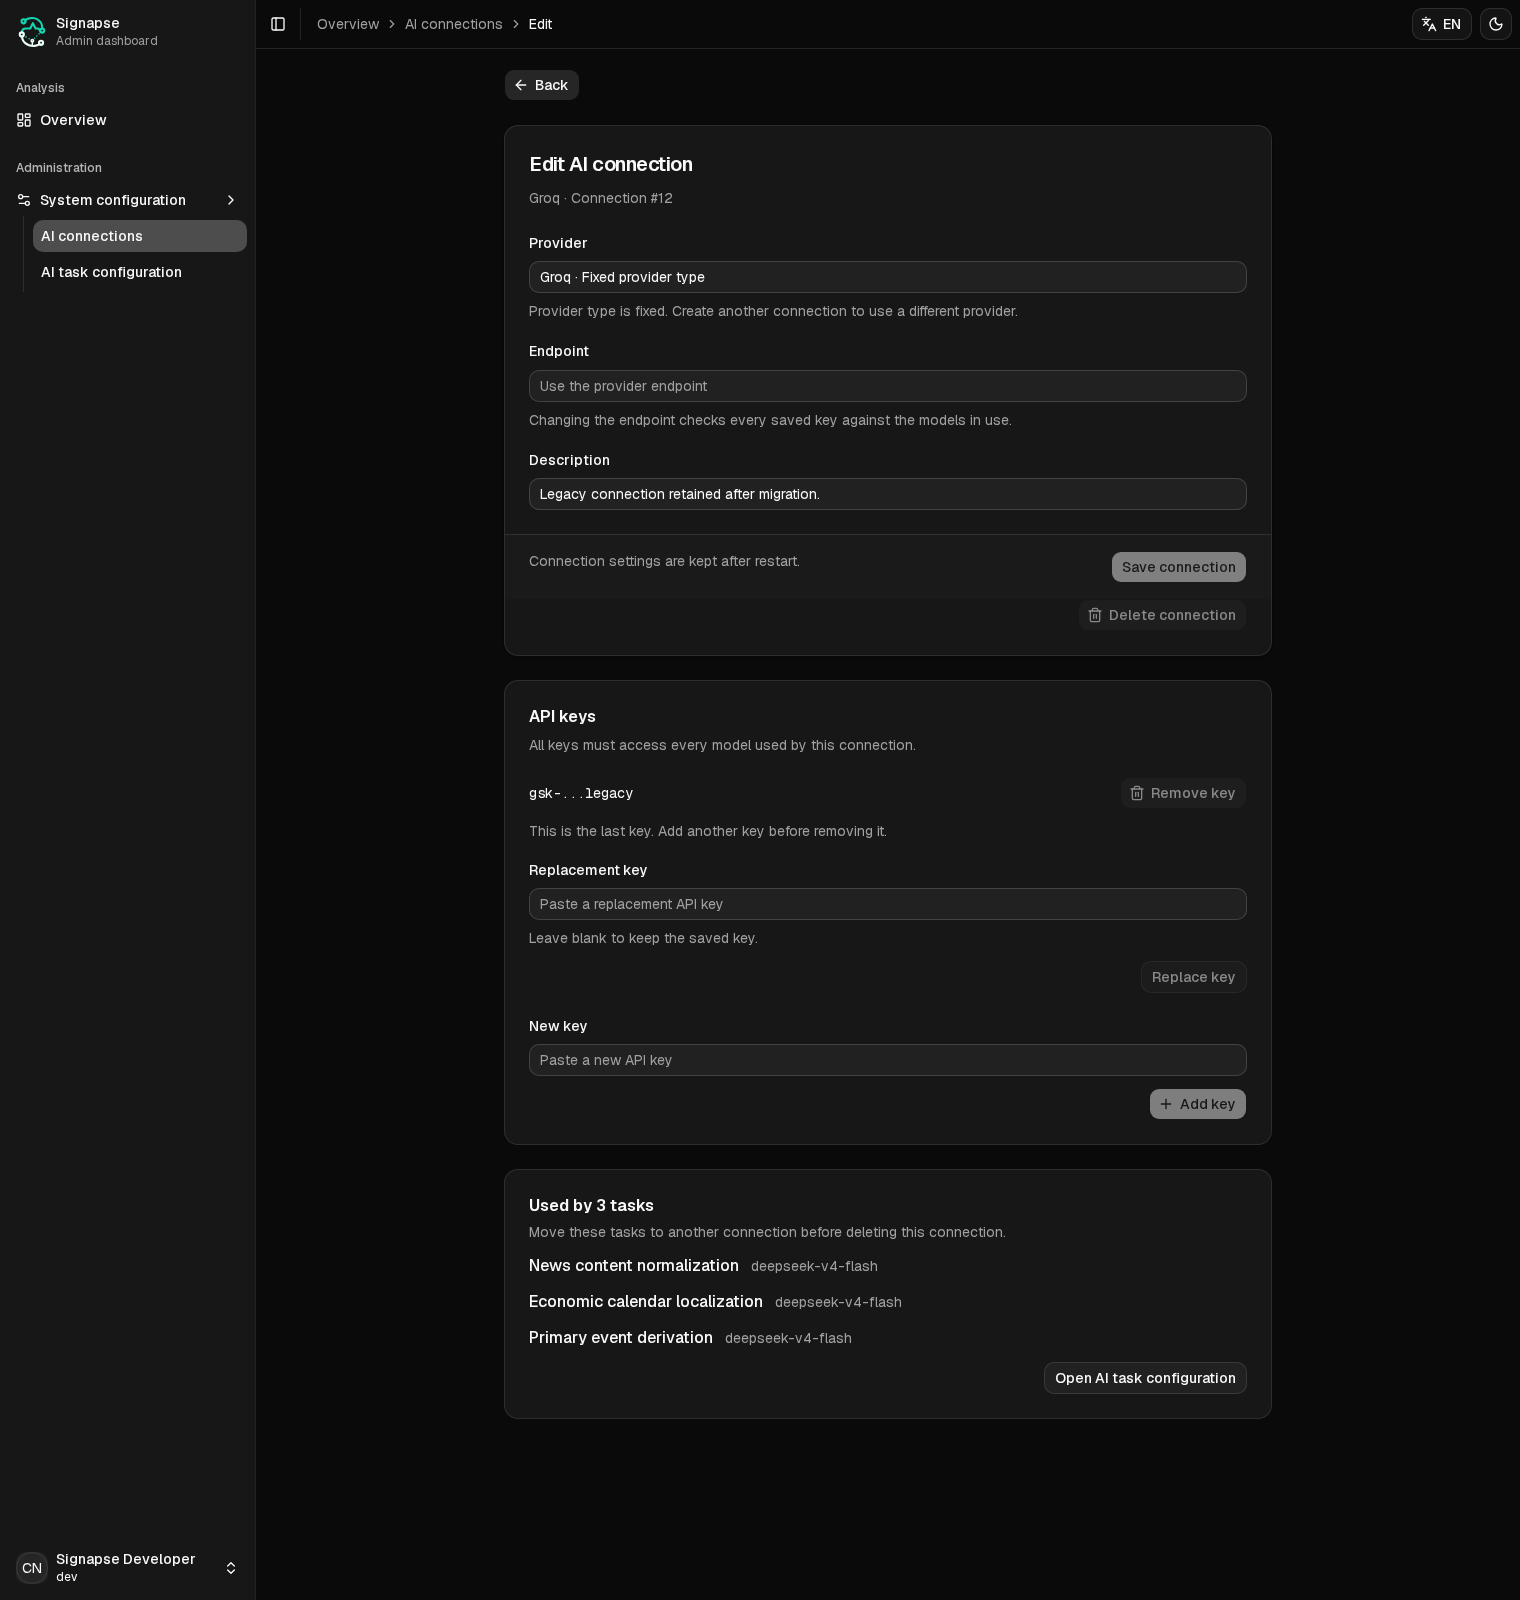
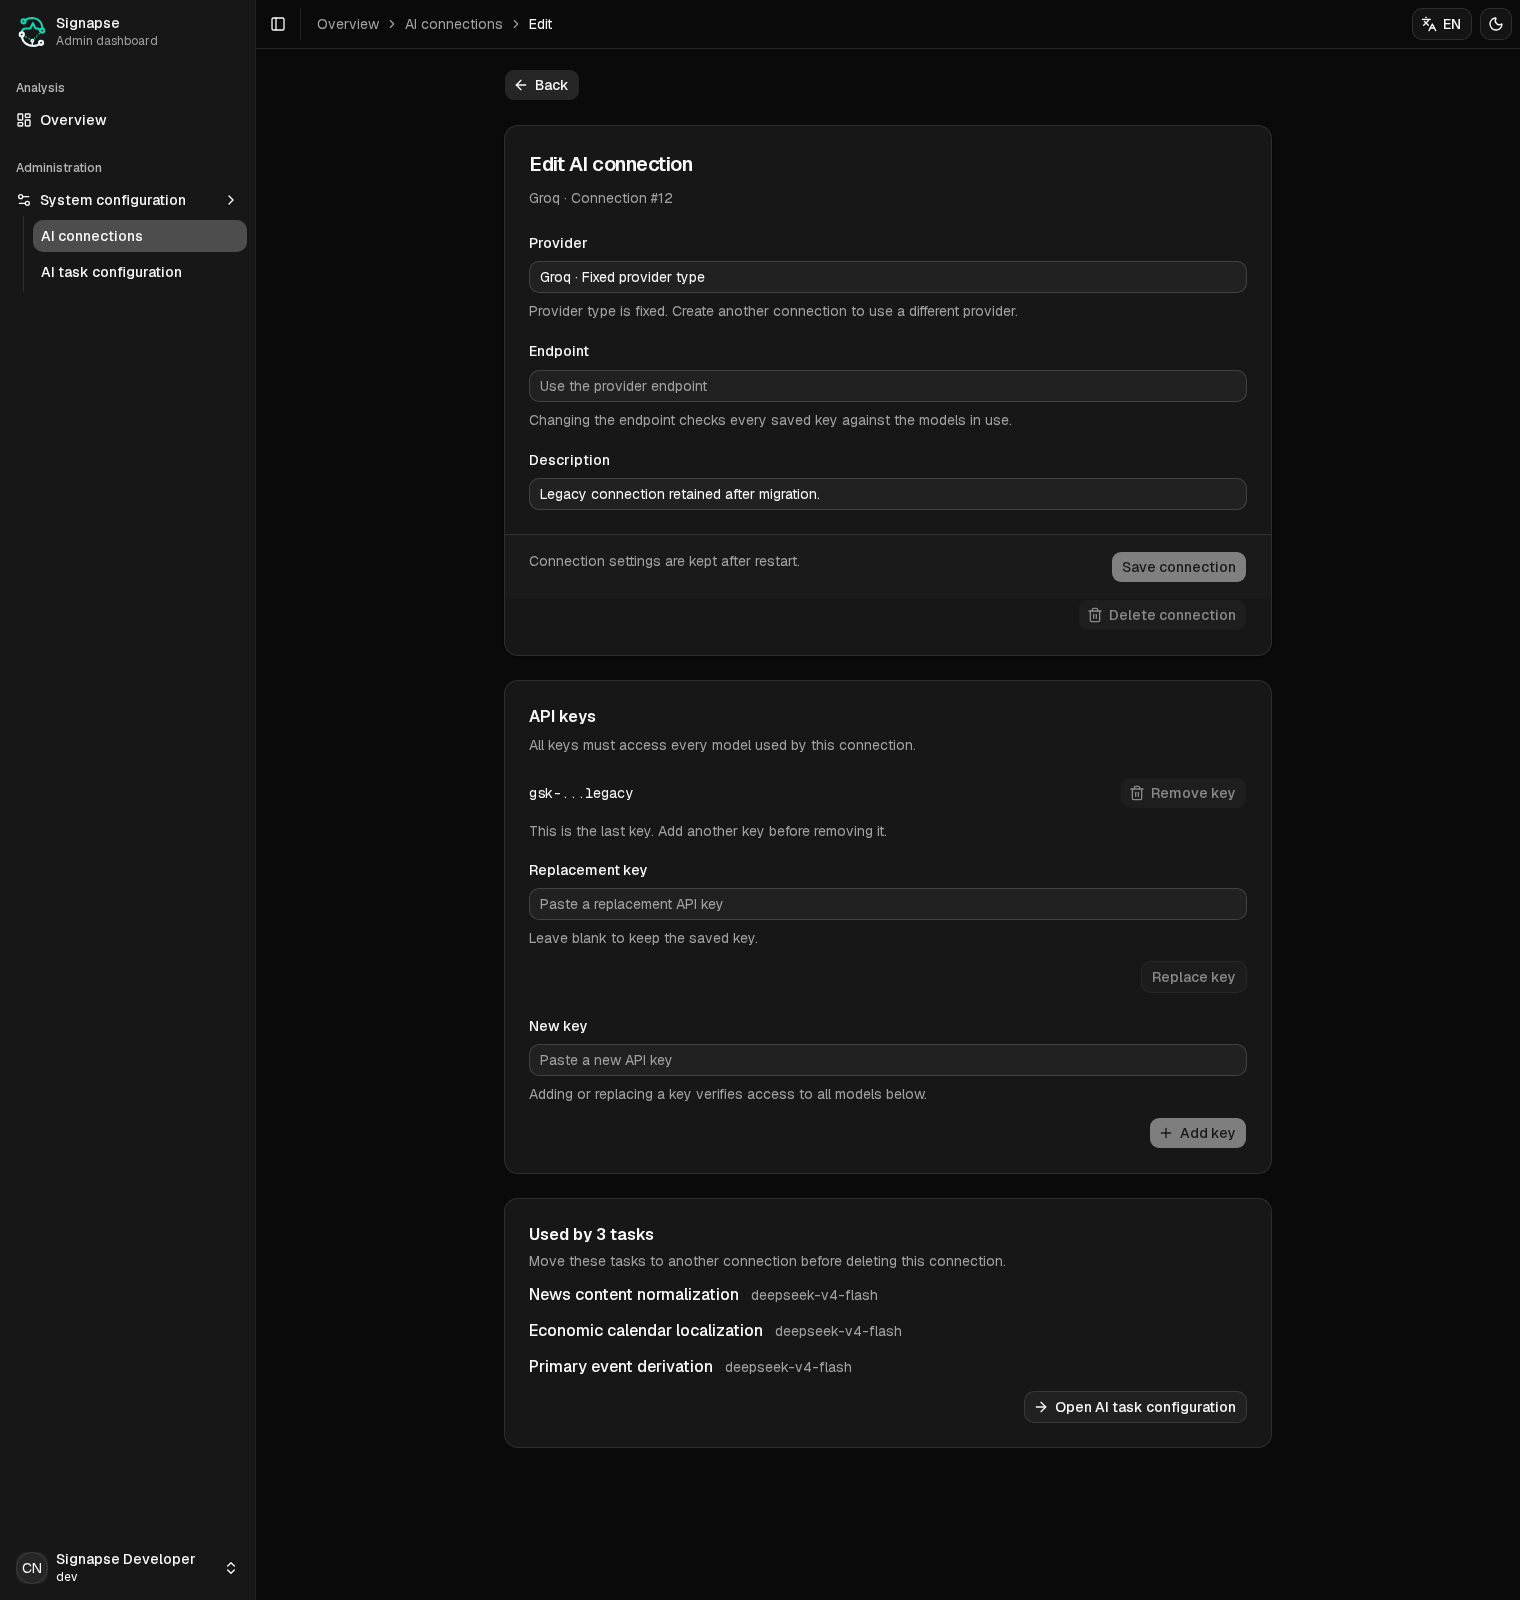
SIGN-221: align edit detail with approved design

Changed region(s): [[0.3401, 0.75, 0.5875, 0.875], [0.6803, 0.8438, 0.8039, 0.9062], [0.7421, 0.6562, 0.8349, 0.7188]]

diff --git a/tests/e2e/ai-provider-configs.spec.ts b/tests/e2e/ai-provider-configs.spec.ts
@@ -200,6 +200,9 @@ test.describe("P0 AI connections", () => {
     ).toHaveValue("")
     await expect(page.getByLabel("New key", { exact: true })).toHaveValue("")
     await expect(
+      page.getByText(en.aiProviderConfigs.newKeyDescription, { exact: true })
+    ).toBeVisible()
+    await expect(
       page.getByText("deepseek-v4-flash", { exact: true })
     ).toHaveCount(3)
     await expect(
@@ -273,6 +276,30 @@ test.describe("P0 AI connections", () => {
       await expect(page.getByLabel("Replacement key")).toBeEmpty()
       await expect(page.getByLabel("New key")).toBeEmpty()
       if (viewport.width === 390) {
+        const mobileBreadcrumb = page.getByRole("navigation", {
+          name: en.navigation.breadcrumb,
+        })
+        await expect(
+          mobileBreadcrumb.getByRole("link", {
+            name: en.navigation.aiProviders,
+            exact: true,
+          })
+        ).toBeVisible()
+        await expect(
+          mobileBreadcrumb.getByText(en.common.edit, { exact: true })
+        ).toBeVisible()
+        await expect(
+          mobileBreadcrumb.getByRole("link", {
+            name: en.navigation.overview,
+            exact: true,
+          })
+        ).not.toBeVisible()
+        await expect(
+          page.getByText(en.aiProviderConfigs.newKeyDescriptionMobile, {
+            exact: true,
+          })
+        ).toBeVisible()
+
         const mobileScreenshot = await page.screenshot({
           fullPage: true,
           style: "nextjs-portal { display: none !important; }",

diff --git a/components/app-breadcrumbs.tsx b/components/app-breadcrumbs.tsx
@@ -128,6 +128,10 @@ export function AppBreadcrumb() {
         {visibleSegments.map((segment, index) => {
           const href = `/${visibleSegments.slice(0, index + 1).join("/")}`
           const isLast = index === visibleSegments.length - 1
+          const showAiProviderParentOnMobile =
+            isAiProviderConfigDetailRoute && index === 0
+          const showAiProviderSeparatorOnMobile =
+            isAiProviderConfigDetailRoute && index === 1
           const title =
             isSystemPromptViewRoute && segment === "view"
               ? dictionary.aiTaskConfigurations.promptViewTitle
@@ -139,10 +143,20 @@ export function AppBreadcrumb() {
           return (
             <React.Fragment key={href}>
               {showSeparator ? (
-                <BreadcrumbSeparator className="hidden md:block" />
+                <BreadcrumbSeparator
+                  className={
+                    showAiProviderSeparatorOnMobile
+                      ? undefined
+                      : "hidden md:block"
+                  }
+                />
               ) : null}
               <BreadcrumbItem
-                className={!isLast ? "hidden md:block" : "min-w-0"}
+                className={
+                  !isLast && !showAiProviderParentOnMobile
+                    ? "hidden md:block"
+                    : "min-w-0"
+                }
               >
                 {isLast ? (
                   <BreadcrumbPage className="max-w-[45vw] truncate md:max-w-[36rem]">

diff --git a/app/[lang]/(main)/ai-provider-configs/ai-provider-config-detail.tsx b/app/[lang]/(main)/ai-provider-configs/ai-provider-config-detail.tsx
@@ -1,6 +1,6 @@
 "use client"
 
-import { ArrowLeft, Plus, Trash2 } from "lucide-react"
+import { ArrowLeft, ArrowRight, Plus, Trash2 } from "lucide-react"
 import { useRouter } from "next/navigation"
 import { useEffect, useState } from "react"
 import { toast } from "sonner"
@@ -604,6 +604,14 @@ function AiProviderConfigDetailContent({
                 placeholder={t.newKeyPlaceholder}
                 disabled={pendingOperation !== null}
               />
+              <FieldDescription>
+                <span className="hidden sm:inline">
+                  {t.newKeyDescription}
+                </span>
+                <span className="sm:hidden">
+                  {t.newKeyDescriptionMobile}
+                </span>
+              </FieldDescription>
             </Field>
             <Button
               type="submit"
@@ -678,6 +686,7 @@ function AiProviderConfigDetailContent({
               href="/ai-task-configurations"
               className={`${buttonVariants({ variant: "outline" })} w-full sm:w-auto sm:self-end`}
             >
+              <ArrowRight data-icon="inline-start" />
               {t.openTaskConfiguration}
             </Link>
           ) : null}

diff --git a/app/lib/i18n/dictionaries/vi.ts b/app/lib/i18n/dictionaries/vi.ts
@@ -1329,6 +1329,9 @@ export const vi = {
     replaceKeyError: "Không thể thay API key. Hãy kiểm tra key rồi thử lại.",
     newKey: "Key mới",
     newKeyPlaceholder: "Dán API key mới",
+    newKeyDescription:
+      "Thêm hoặc thay API key sẽ kiểm tra quyền truy cập vào tất cả model bên dưới.",
+    newKeyDescriptionMobile: "Kiểm tra quyền truy cập vào các model bên dưới.",
     addKey: "Thêm key",
     addKeyPending: "Đang thêm key...",
     addKeySuccess: "Đã thêm API key.",

diff --git a/app/lib/i18n/dictionaries/en.ts b/app/lib/i18n/dictionaries/en.ts
@@ -1338,6 +1338,9 @@ export const en: Dictionary = {
       "Could not replace this API key. Check the key and try again.",
     newKey: "New key",
     newKeyPlaceholder: "Paste a new API key",
+    newKeyDescription:
+      "Adding or replacing a key verifies access to all models below.",
+    newKeyDescriptionMobile: "Verifies access to all models below.",
     addKey: "Add key",
     addKeyPending: "Adding key...",
     addKeySuccess: "API key added.",

diff --git a/docs/design/evidence/SIGN-221/README.md b/docs/design/evidence/SIGN-221/README.md
@@ -7,7 +7,7 @@ These candidate renders were recaptured on 2026-10-29 by the targeted P0 browser
 - [Desktop Edit, 1520×1600](edit-1520x1600.png)
 - [Mobile Edit, 390px wide](edit-mobile-390.png)
 
-The fixture uses Groq connection `#12`, a masked legacy key, and three task/model references. The approved frame uses DeepSeek connection `#1`; provider, identifier, description and key-preview text are fixture content. The comparison covers the card order, fixed-provider state, editable endpoint and description, masked key, blocked last-key and referenced-connection deletion, task/model references, and task-configuration link.
+The fixture uses Groq connection `#12`, a masked legacy key, and three task/model references. The approved frame uses DeepSeek connection `#1`; provider, identifier, description and key-preview text are fixture content. The comparison covers the card order, fixed-provider state, editable endpoint and description, masked key, blocked last-key and referenced-connection deletion, task/model references, and task-configuration link. Mobile keeps the approved AI connections > Edit breadcrumb while hiding Overview. The key validation helper uses the shorter mobile copy, and the task-configuration action keeps its leading arrow icon.
 
 The targeted P0 design case passed (1/1). It checked body overflow at 360, 390, 767, 768, 1024, 1439, 1440 and 1520 CSS pixels, plus a 760×512 CSS viewport representing the effective layout width at 200% desktop zoom. It also checked keyboard order through endpoint, description and replacement-key fields, serious/critical axe findings on the desktop Edit frame, and the unsaved-draft dialog: Enter on Back opens it, Escape restores focus and retains the endpoint draft, and Discard returns to the connection list and clears the draft. The mobile render was captured and checked for horizontal overflow.
 
